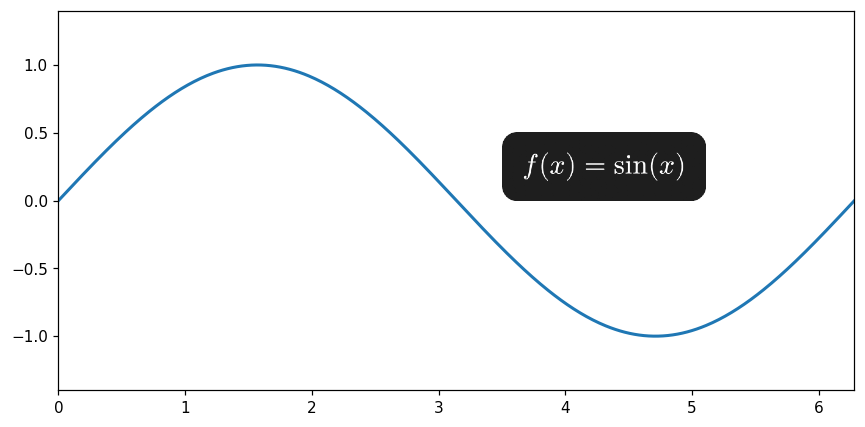
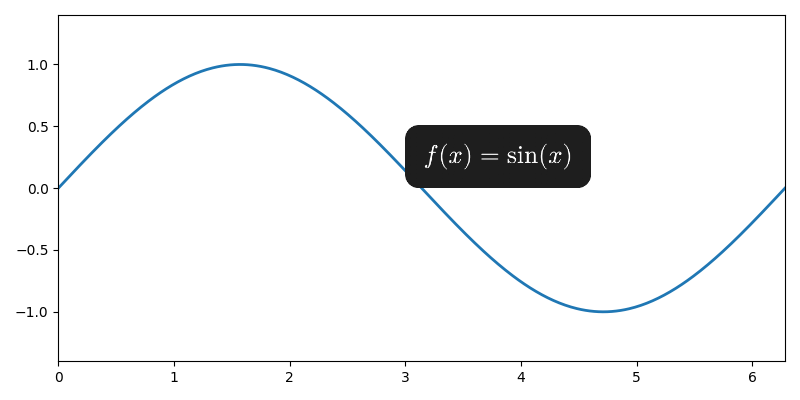
better doc

diff --git a/README.md b/README.md
@@ -53,25 +53,17 @@ ax.set_xlim(0, 2 * np.pi)
 ax.set_ylim(-1.4, 1.4)
 
 ax_typst(
-    3.5,
+    3,
     0,
-    r"""
+    """
     #box(
       fill: rgb("#1e1e1e"),
       radius: 6pt,
       inset: 8pt,
-      text(
-        font: "New Computer Modern",
-        fill: white,
-        size: 11pt,
-      )[
-        $
-          f(x) = sin(x)
-        $
-      ],
+      text(fill: white)[$f(x) = sin(x)$]
     )
     """,
-    scale=1.2,
+    scale=1.2, # 20% zoom
 )
 ```
 